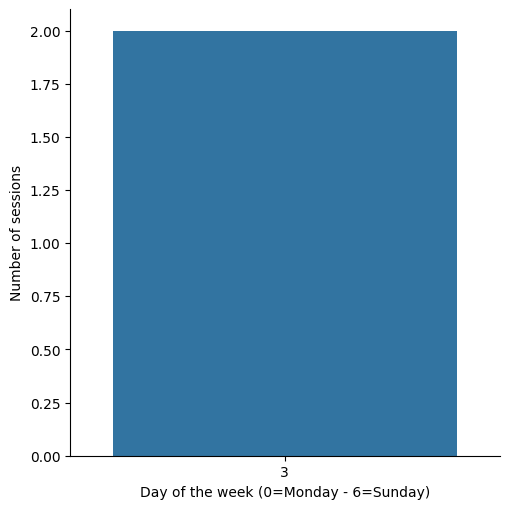
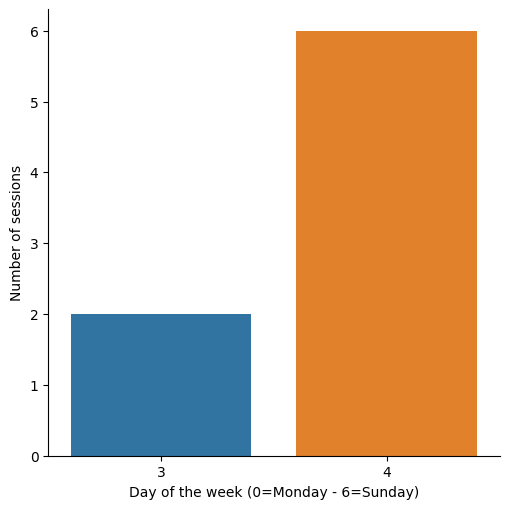
"Stats generated 2021-09-25"

diff --git a/all/2021/9/weekdays/4/index.html b/all/2021/9/weekdays/4/index.html
@@ -1,0 +1,29 @@
+<!DOCTYPE html>
+<html>
+  <head>
+    <meta charset="utf-8"/>
+    <title>Fridays September 2021</title>
+    <link rel="stylesheet" href="../../../../../styles.css"/>
+  </head>
+  <body>
+    <div id="container">
+      <nav>
+        <ul>
+          
+            <li><a href="../../">September 2021</a></li>
+            <li class="separator"></li>
+          
+          
+        </ul>
+      </nav>
+      <main>
+        <h1>Fridays September 2021</h1>
+        
+          <h2>Number of sessions per hour</h2>
+          <img src="sessions.png" alt="Number of sessions per hour"/>
+        
+        
+      </main>
+    </div>
+  </body>
+</html>

diff --git a/all/2021/9/days/24/index.html b/all/2021/9/days/24/index.html
@@ -1,0 +1,29 @@
+<!DOCTYPE html>
+<html>
+  <head>
+    <meta charset="utf-8"/>
+    <title>24 September 2021</title>
+    <link rel="stylesheet" href="../../../../../styles.css"/>
+  </head>
+  <body>
+    <div id="container">
+      <nav>
+        <ul>
+          
+            <li><a href="../../">September 2021</a></li>
+            <li class="separator"></li>
+          
+          
+        </ul>
+      </nav>
+      <main>
+        <h1>24 September 2021</h1>
+        
+          <h2>Number of sessions per hour</h2>
+          <img src="sessions.png" alt="Number of sessions per hour"/>
+        
+        
+      </main>
+    </div>
+  </body>
+</html>

diff --git a/all/2021/9/index.html b/all/2021/9/index.html
@@ -23,11 +23,19 @@
             
           
             
+              <li><a href="weekdays/4/">Friday</a></li>
+            
+          
+            
               <li><span>Day of Month</span></li>
             
           
             
               <li><a href="days/23/">23</a></li>
+            
+          
+            
+              <li><a href="days/24/">24</a></li>
             
           
         </ul>

diff --git a/all/2021/index.html b/all/2021/index.html
@@ -129,9 +129,9 @@
                   
                     <td>9.0</td>
                   
-                    <td>2.0</td>
+                    <td>8.0</td>
                   
-                    <td>3.6346187583333336</td>
+                    <td>22.2398507</td>
                   
                 </tr>
               
